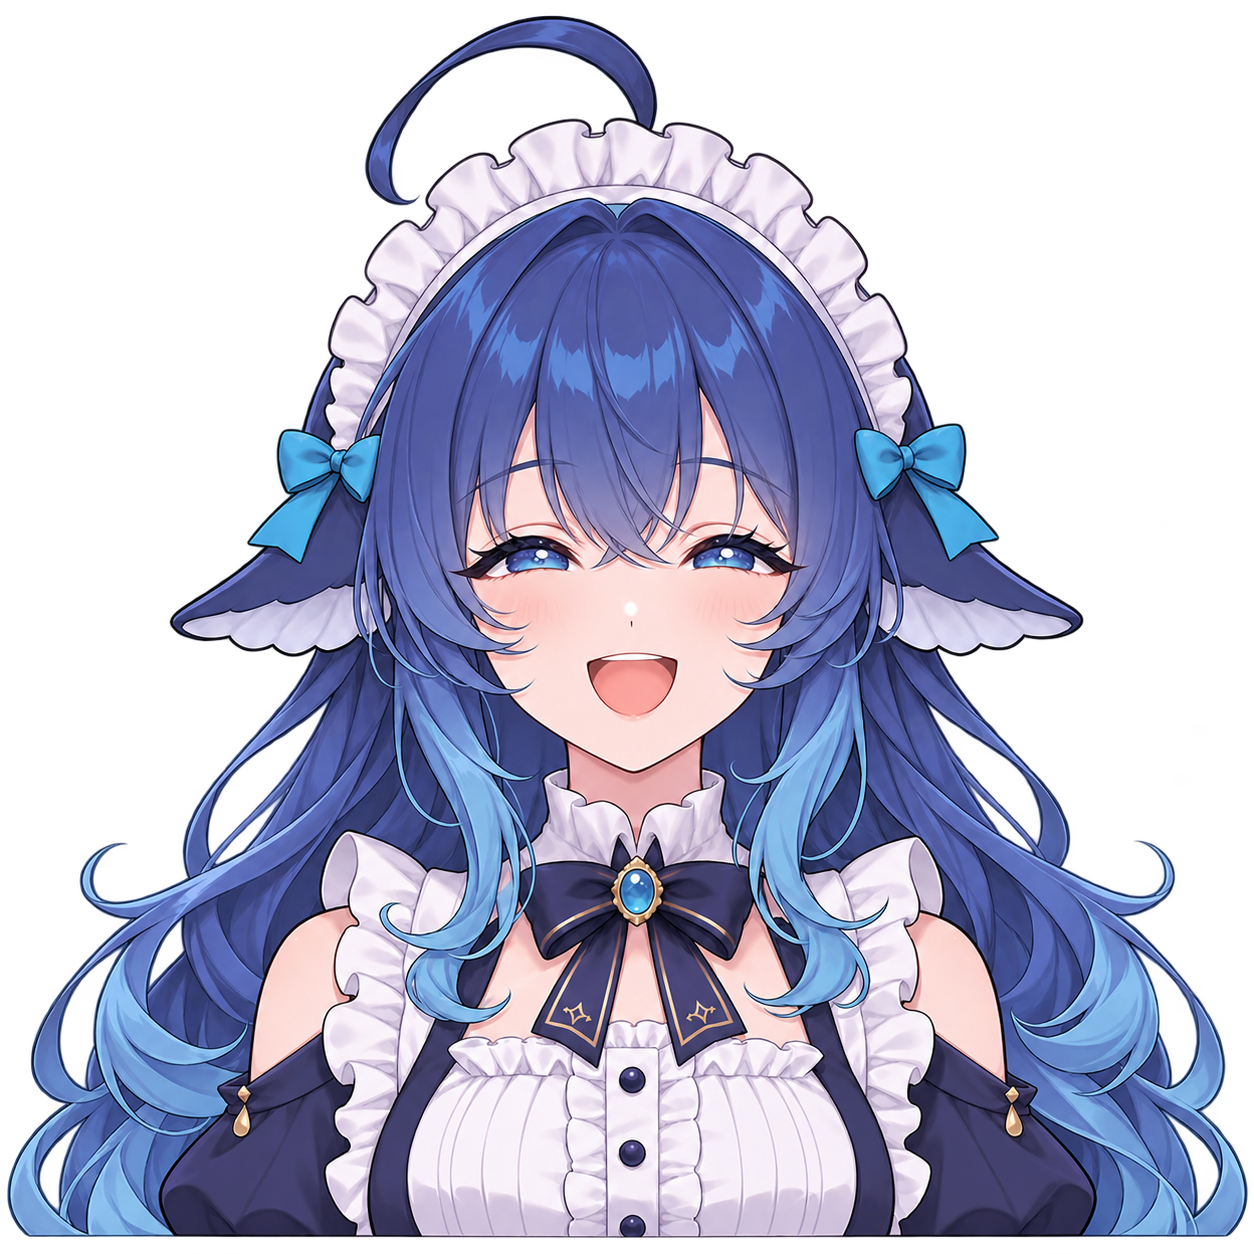
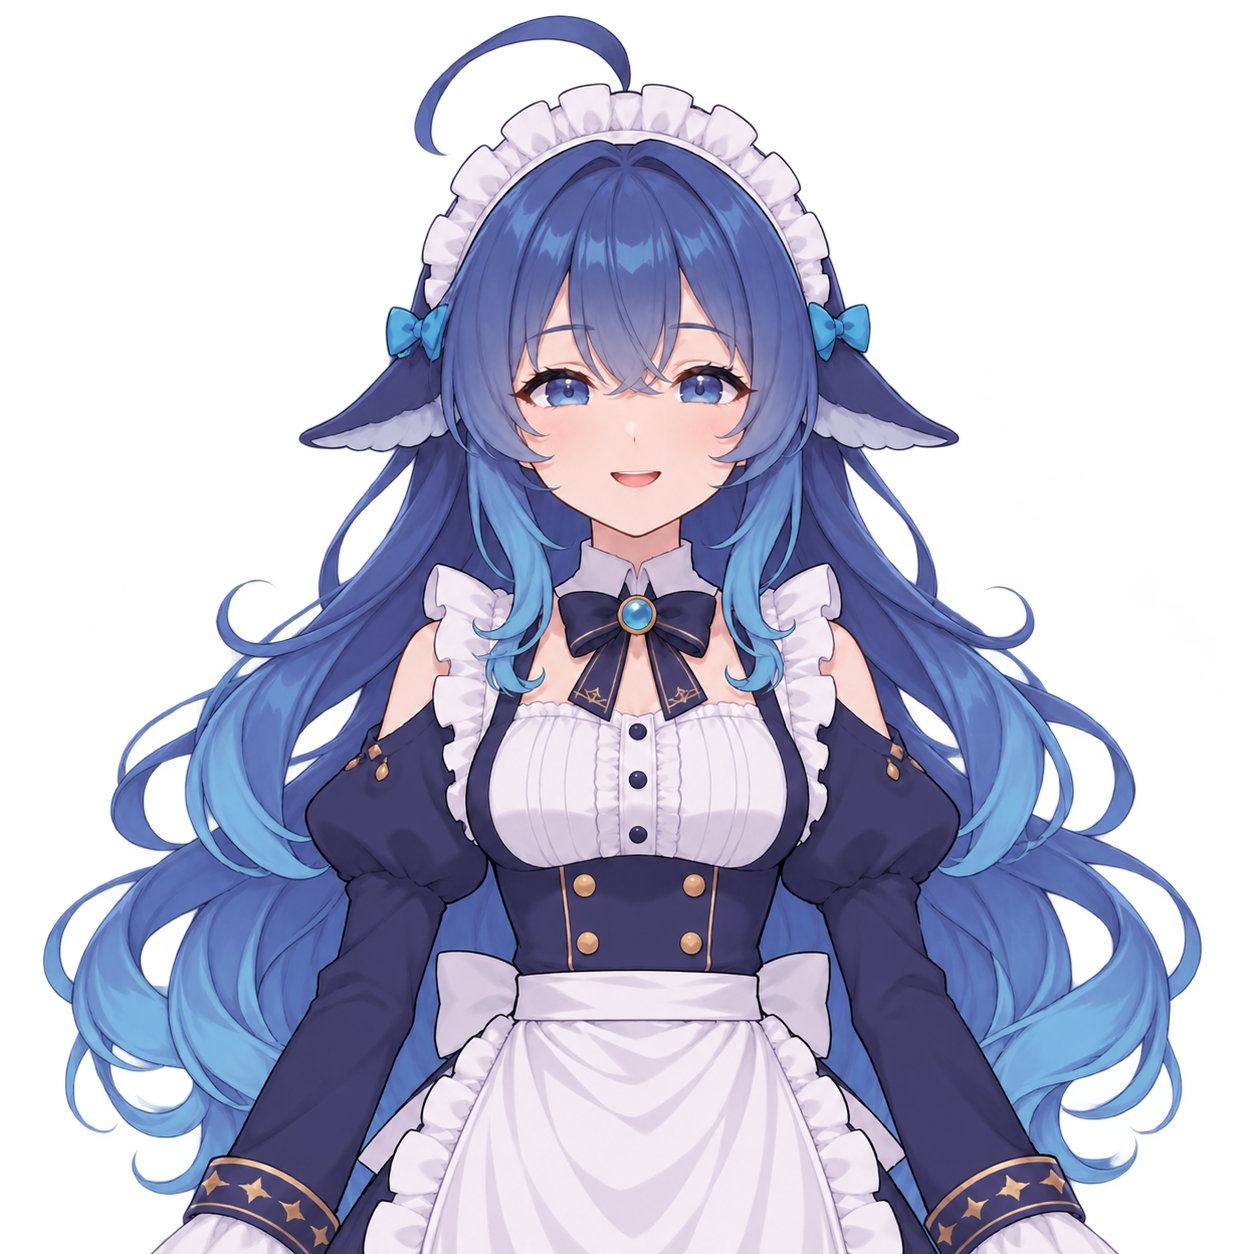
Regenerate character art with balanced proportions and restrained expressions

diff --git a/assets/characters/index.html b/assets/characters/index.html
@@ -1,1 +1,1 @@
-<!doctype html><meta charset="utf-8"><title>IRON 六角色表情素材</title><style>body{background:#172238;color:#edf;font:18px system-ui;margin:30px}section{display:grid;grid-template-columns:repeat(5,minmax(100px,1fr));gap:12px}figure{margin:0;background:repeating-conic-gradient(#354158 0% 25%,#263248 0% 50%) 0/24px 24px}img{width:100%}figcaption{background:#121a2b;padding:10px}</style><h1>六角色 · 每位五种表情</h1><p>透明 PNG，点击查看原图。角色卡待填写。</p><h2>deepseek</h2><section><figure><a href="deepseek/neutral.png"><img src="deepseek/neutral.png"></a><figcaption>neutral</figcaption></figure><figure><a href="deepseek/happy.png"><img src="deepseek/happy.png"></a><figcaption>happy</figcaption></figure><figure><a href="deepseek/questioning.png"><img src="deepseek/questioning.png"></a><figcaption>questioning</figcaption></figure><figure><a href="deepseek/smug.png"><img src="deepseek/smug.png"></a><figcaption>smug</figcaption></figure><figure><a href="deepseek/flustered.png"><img src="deepseek/flustered.png"></a><figcaption>flustered</figcaption></figure></section><h2>claude</h2><section><figure><a href="claude/neutral.png"><img src="claude/neutral.png"></a><figcaption>neutral</figcaption></figure><figure><a href="claude/amused.png"><img src="claude/amused.png"></a><figcaption>amused</figcaption></figure><figure><a href="claude/stern.png"><img src="claude/stern.png"></a><figcaption>stern</figcaption></figure><figure><a href="claude/concerned.png"><img src="claude/concerned.png"></a><figcaption>concerned</figcaption></figure><figure><a href="claude/surprised.png"><img src="claude/surprised.png"></a><figcaption>surprised</figcaption></figure></section><h2>qwen</h2><section><figure><a href="qwen/neutral.png"><img src="qwen/neutral.png"></a><figcaption>neutral</figcaption></figure><figure><a href="qwen/confident.png"><img src="qwen/confident.png"></a><figcaption>confident</figcaption></figure><figure><a href="qwen/curious.png"><img src="qwen/curious.png"></a><figcaption>curious</figcaption></figure><figure><a href="qwen/exasperated.png"><img src="qwen/exasperated.png"></a><figcaption>exasperated</figcaption></figure><figure><a href="qwen/delighted.png"><img src="qwen/delighted.png"></a><figcaption>delighted</figcaption></figure></section><h2>glm</h2><section><figure><a href="glm/neutral.png"><img src="glm/neutral.png"></a><figcaption>neutral</figcaption></figure><figure><a href="glm/deadpan.png"><img src="glm/deadpan.png"></a><figcaption>deadpan</figcaption></figure><figure><a href="glm/smug.png"><img src="glm/smug.png"></a><figcaption>smug</figcaption></figure><figure><a href="glm/annoyed.png"><img src="glm/annoyed.png"></a><figcaption>annoyed</figcaption></figure><figure><a href="glm/shy.png"><img src="glm/shy.png"></a><figcaption>shy</figcaption></figure></section><h2>gemini</h2><section><figure><a href="gemini/neutral.png"><img src="gemini/neutral.png"></a><figcaption>neutral</figcaption></figure><figure><a href="gemini/excited.png"><img src="gemini/excited.png"></a><figcaption>excited</figcaption></figure><figure><a href="gemini/mischievous.png"><img src="gemini/mischievous.png"></a><figcaption>mischievous</figcaption></figure><figure><a href="gemini/surprised.png"><img src="gemini/surprised.png"></a><figcaption>surprised</figcaption></figure><figure><a href="gemini/flustered.png"><img src="gemini/flustered.png"></a><figcaption>flustered</figcaption></figure></section><h2>gpt</h2><section><figure><a href="gpt/neutral.png"><img src="gpt/neutral.png"></a><figcaption>neutral</figcaption></figure><figure><a href="gpt/confident.png"><img src="gpt/confident.png"></a><figcaption>confident</figcaption></figure><figure><a href="gpt/skeptical.png"><img src="gpt/skeptical.png"></a><figcaption>skeptical</figcaption></figure><figure><a href="gpt/stern.png"><img src="gpt/stern.png"></a><figcaption>stern</figcaption></figure><figure><a href="gpt/flustered.png"><img src="gpt/flustered.png"></a><figcaption>flustered</figcaption></figure></section>
+<!doctype html><meta charset="utf-8"><meta name="viewport" content="width=device-width,initial-scale=1"><title>IRON 六角色表情素材 V2</title><style>body{background:#172238;color:#edf;font:18px system-ui;margin:30px}section{display:grid;grid-template-columns:repeat(5,minmax(100px,1fr));gap:12px}figure{margin:0;background:repeating-conic-gradient(#354158 0% 25%,#263248 0% 50%) 0/24px 24px}img{width:100%;display:block}figcaption{background:#121a2b;padding:10px;font-size:14px}@media(max-width:800px){section{grid-template-columns:repeat(2,minmax(100px,1fr))}}</style><h1>六角色 · 第二版表情素材</h1><p>按原三视图修正脸部与头肩比例；大肥鱼更年轻清秀，全员采用克制自然的表情。透明 PNG，点击查看原图。</p><h2>DeepSeek</h2><section><figure><a href="deepseek/neutral.png"><img loading="lazy" src="deepseek/neutral.png" alt="deepseek neutral"></a><figcaption>平静 / neutral</figcaption></figure><figure><a href="deepseek/happy.png"><img loading="lazy" src="deepseek/happy.png" alt="deepseek happy"></a><figcaption>开心 / happy</figcaption></figure><figure><a href="deepseek/questioning.png"><img loading="lazy" src="deepseek/questioning.png" alt="deepseek questioning"></a><figcaption>疑惑 / questioning</figcaption></figure><figure><a href="deepseek/confident.png"><img loading="lazy" src="deepseek/confident.png" alt="deepseek confident"></a><figcaption>笃定 / confident</figcaption></figure><figure><a href="deepseek/flustered.png"><img loading="lazy" src="deepseek/flustered.png" alt="deepseek flustered"></a><figcaption>害羞 / flustered</figcaption></figure></section><h2>Claude</h2><section><figure><a href="claude/neutral.png"><img loading="lazy" src="claude/neutral.png" alt="claude neutral"></a><figcaption>平静 / neutral</figcaption></figure><figure><a href="claude/amused.png"><img loading="lazy" src="claude/amused.png" alt="claude amused"></a><figcaption>浅笑 / amused</figcaption></figure><figure><a href="claude/stern.png"><img loading="lazy" src="claude/stern.png" alt="claude stern"></a><figcaption>认真 / stern</figcaption></figure><figure><a href="claude/concerned.png"><img loading="lazy" src="claude/concerned.png" alt="claude concerned"></a><figcaption>担忧 / concerned</figcaption></figure><figure><a href="claude/surprised.png"><img loading="lazy" src="claude/surprised.png" alt="claude surprised"></a><figcaption>惊讶 / surprised</figcaption></figure></section><h2>Qwen</h2><section><figure><a href="qwen/neutral.png"><img loading="lazy" src="qwen/neutral.png" alt="qwen neutral"></a><figcaption>平静 / neutral</figcaption></figure><figure><a href="qwen/confident.png"><img loading="lazy" src="qwen/confident.png" alt="qwen confident"></a><figcaption>笃定 / confident</figcaption></figure><figure><a href="qwen/curious.png"><img loading="lazy" src="qwen/curious.png" alt="qwen curious"></a><figcaption>好奇 / curious</figcaption></figure><figure><a href="qwen/exasperated.png"><img loading="lazy" src="qwen/exasperated.png" alt="qwen exasperated"></a><figcaption>困惑 / exasperated</figcaption></figure><figure><a href="qwen/delighted.png"><img loading="lazy" src="qwen/delighted.png" alt="qwen delighted"></a><figcaption>欣喜 / delighted</figcaption></figure></section><h2>GLM</h2><section><figure><a href="glm/neutral.png"><img loading="lazy" src="glm/neutral.png" alt="glm neutral"></a><figcaption>平静 / neutral</figcaption></figure><figure><a href="glm/deadpan.png"><img loading="lazy" src="glm/deadpan.png" alt="glm deadpan"></a><figcaption>困倦 / deadpan</figcaption></figure><figure><a href="glm/amused.png"><img loading="lazy" src="glm/amused.png" alt="glm amused"></a><figcaption>浅笑 / amused</figcaption></figure><figure><a href="glm/annoyed.png"><img loading="lazy" src="glm/annoyed.png" alt="glm annoyed"></a><figcaption>轻微不满 / annoyed</figcaption></figure><figure><a href="glm/shy.png"><img loading="lazy" src="glm/shy.png" alt="glm shy"></a><figcaption>害羞 / shy</figcaption></figure></section><h2>Gemini</h2><section><figure><a href="gemini/neutral.png"><img loading="lazy" src="gemini/neutral.png" alt="gemini neutral"></a><figcaption>平静 / neutral</figcaption></figure><figure><a href="gemini/excited.png"><img loading="lazy" src="gemini/excited.png" alt="gemini excited"></a><figcaption>开心 / excited</figcaption></figure><figure><a href="gemini/playful.png"><img loading="lazy" src="gemini/playful.png" alt="gemini playful"></a><figcaption>俏皮 / playful</figcaption></figure><figure><a href="gemini/surprised.png"><img loading="lazy" src="gemini/surprised.png" alt="gemini surprised"></a><figcaption>惊讶 / surprised</figcaption></figure><figure><a href="gemini/flustered.png"><img loading="lazy" src="gemini/flustered.png" alt="gemini flustered"></a><figcaption>害羞 / flustered</figcaption></figure></section><h2>GPT</h2><section><figure><a href="gpt/neutral.png"><img loading="lazy" src="gpt/neutral.png" alt="gpt neutral"></a><figcaption>平静 / neutral</figcaption></figure><figure><a href="gpt/confident.png"><img loading="lazy" src="gpt/confident.png" alt="gpt confident"></a><figcaption>笃定 / confident</figcaption></figure><figure><a href="gpt/skeptical.png"><img loading="lazy" src="gpt/skeptical.png" alt="gpt skeptical"></a><figcaption>思考 / skeptical</figcaption></figure><figure><a href="gpt/stern.png"><img loading="lazy" src="gpt/stern.png" alt="gpt stern"></a><figcaption>认真 / stern</figcaption></figure><figure><a href="gpt/flustered.png"><img loading="lazy" src="gpt/flustered.png" alt="gpt flustered"></a><figcaption>害羞 / flustered</figcaption></figure></section>
